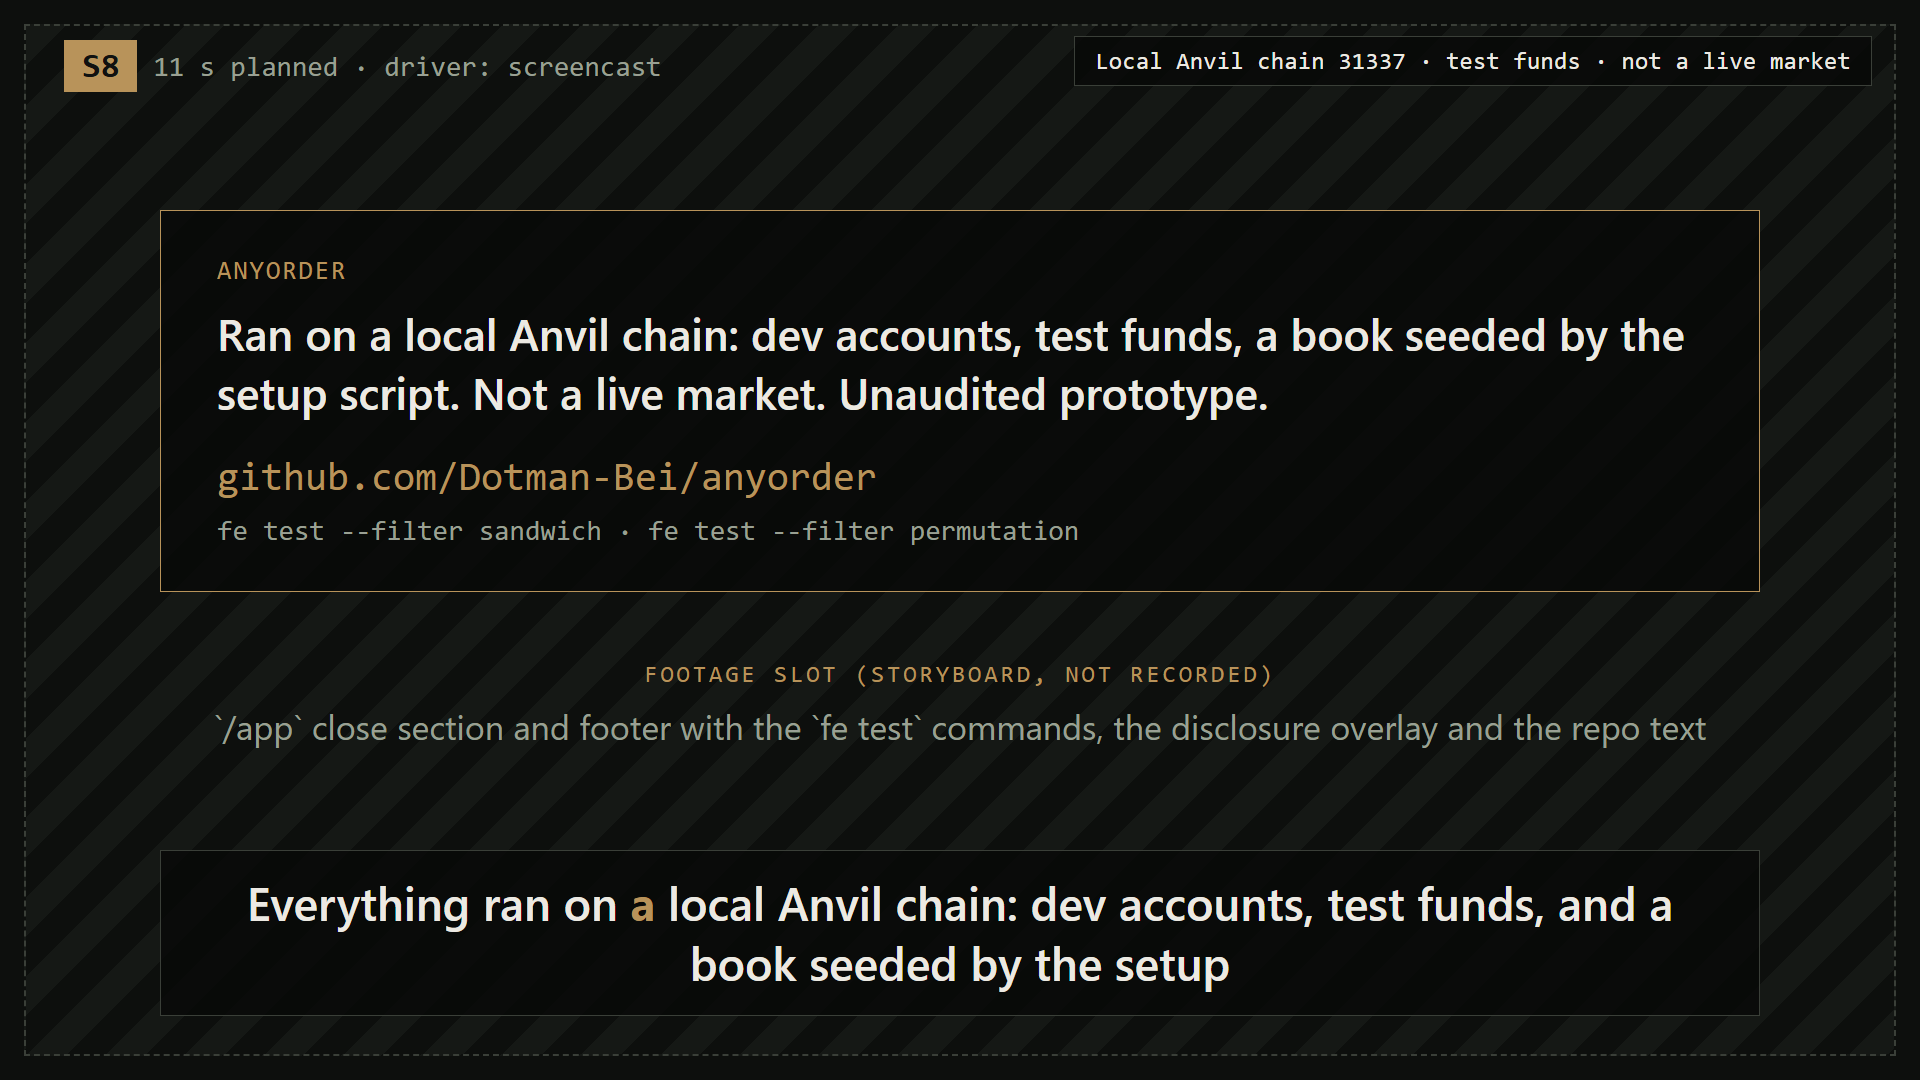
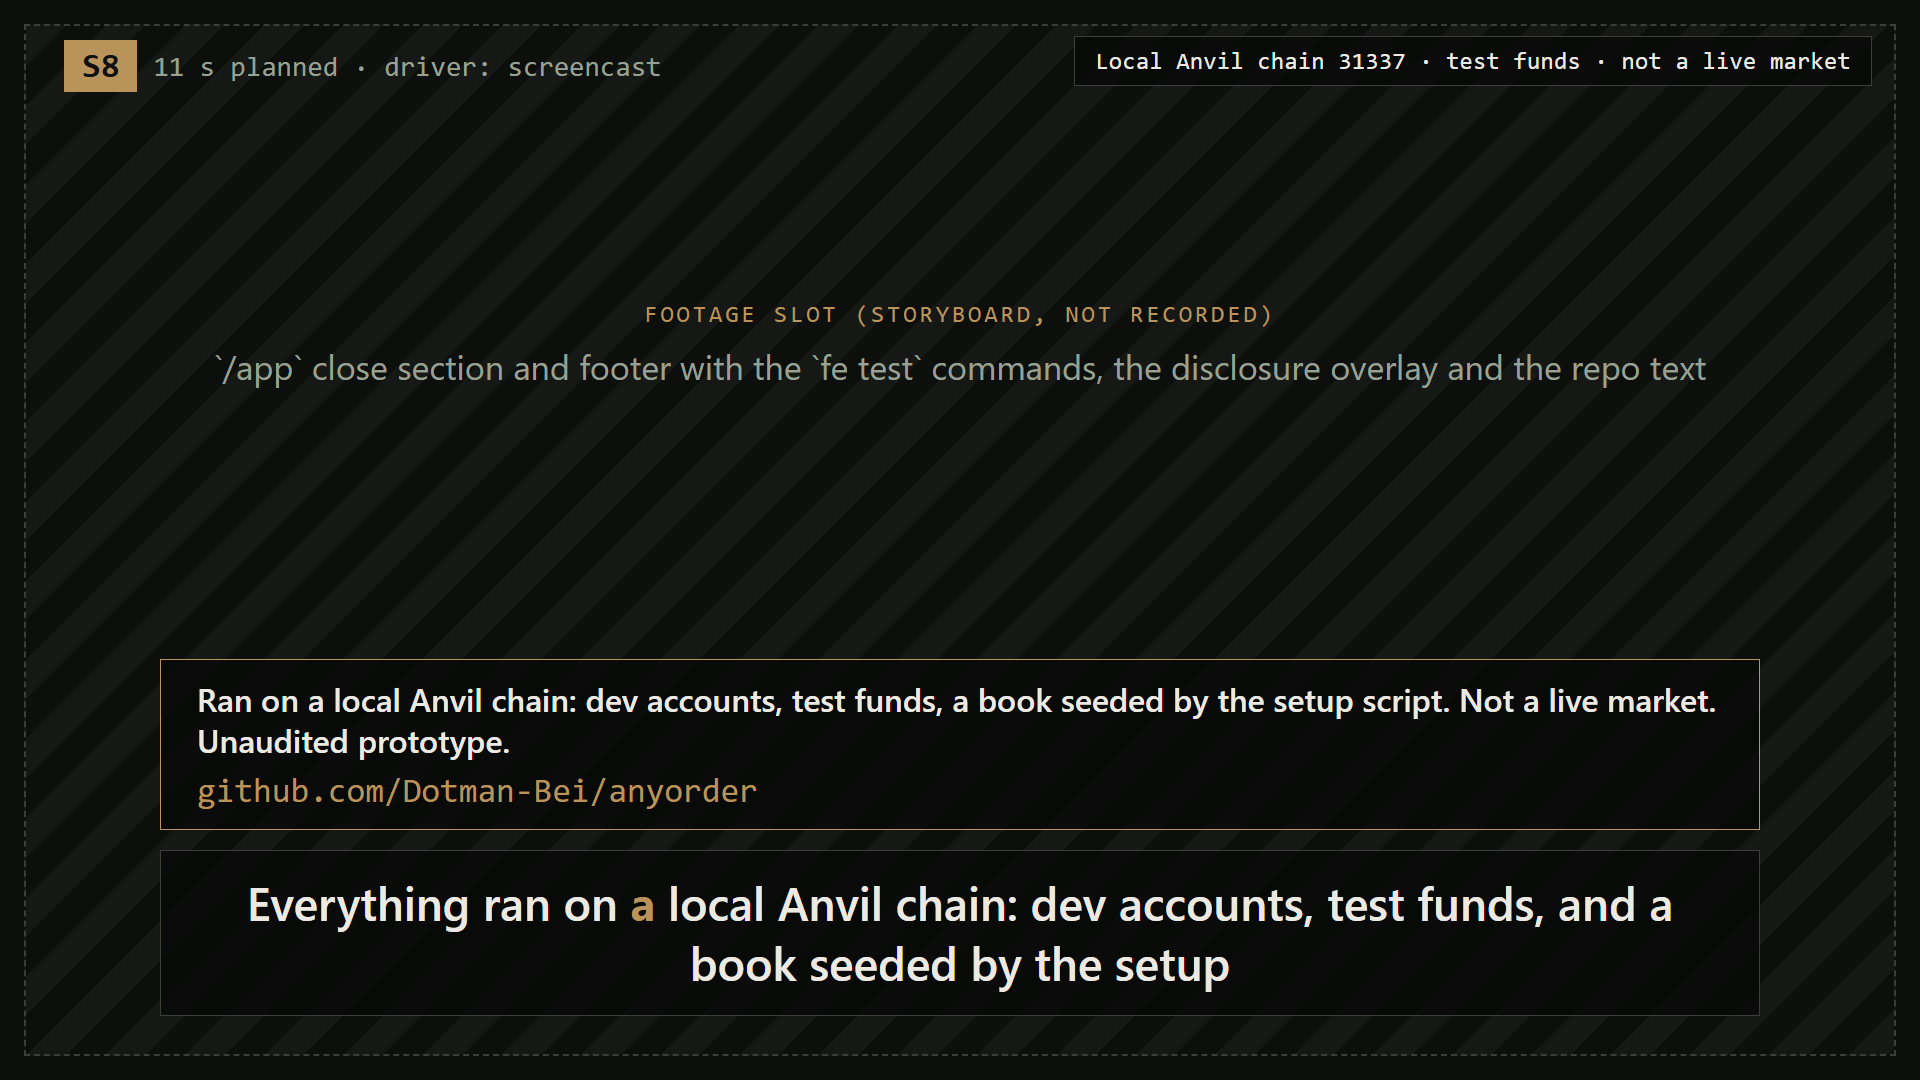
feat(demo): S8 disclosure card as a lower strip
Stills approved by the user with one change: the S8 closing disclosure and
repo text now sit in a lower strip so the real /app footer footage with the
two fe test commands stays visible. Same text; S8 and the contact sheet
re-rendered. Nothing recorded yet.

diff --git a/demo/src/Overlays.tsx b/demo/src/Overlays.tsx
@@ -43,22 +43,19 @@ export const PitchCard: React.FC = () => (
   </div>
 )
 
-// S8's tail: closing disclosure and repo text (no QR).
+// S8's tail: closing disclosure and repo text (no QR) as a lower strip, so the real /app footer
+// footage (with the two `fe test` commands) stays visible above it.
 export const OutroCard: React.FC = () => (
   <div
     style={{
-      position: 'absolute', left: 160, right: 160, top: 210, padding: '44px 56px', background: c.bar,
+      position: 'absolute', left: 160, right: 160, bottom: 250, padding: '18px 36px', background: c.bar,
       border: `1px solid ${c.bronze}`, fontFamily: sans, color: c.text,
     }}
   >
-    <div style={{ fontFamily: mono, fontSize: 26, color: c.bronze, letterSpacing: 2, marginBottom: 18 }}>ANYORDER</div>
-    <div style={{ fontSize: 44, lineHeight: 1.35, fontWeight: 600 }}>
+    <div style={{ fontSize: 32, lineHeight: 1.3, fontWeight: 600 }}>
       Ran on a local Anvil chain: dev accounts, test funds, a book seeded by the setup script. Not a live market.
       Unaudited prototype.
     </div>
-    <div style={{ fontFamily: mono, fontSize: 40, color: c.bronze, marginTop: 30 }}>{REPO}</div>
-    <div style={{ fontFamily: mono, fontSize: 28, color: c.muted, marginTop: 14 }}>
-      fe test --filter sandwich · fe test --filter permutation
-    </div>
+    <div style={{ fontFamily: mono, fontSize: 34, color: c.bronze, marginTop: 10 }}>{REPO}</div>
   </div>
 )

diff --git a/demo/src/Storyboard.tsx b/demo/src/Storyboard.tsx
@@ -35,7 +35,7 @@ export const Storyboard: React.FC<{ id: string }> = ({ id }) => {
         <div style={{ background: c.bronze, color: '#101110', fontFamily: mono, fontWeight: 700, fontSize: 34, padding: '6px 18px' }}>{s.id}</div>
         <div style={{ fontFamily: mono, fontSize: 28, color: c.muted }}>{s.seconds} s planned · driver: {s.driver}</div>
       </div>
-      <div style={{ position: 'absolute', left: 64, right: 64, top: s.id === 'S1' || s.id === 'S8' ? 660 : 420, textAlign: 'center' }}>
+      <div style={{ position: 'absolute', left: 64, right: 64, top: s.id === 'S1' ? 660 : s.id === 'S8' ? 300 : 420, textAlign: 'center' }}>
         <div style={{ fontFamily: mono, fontSize: 24, color: c.bronze, letterSpacing: 3, marginBottom: 16 }}>FOOTAGE SLOT (STORYBOARD, NOT RECORDED)</div>
         <div style={{ fontSize: 34, lineHeight: 1.35, color: c.muted, maxWidth: 1500, margin: '0 auto' }}>{s.visual}</div>
       </div>
